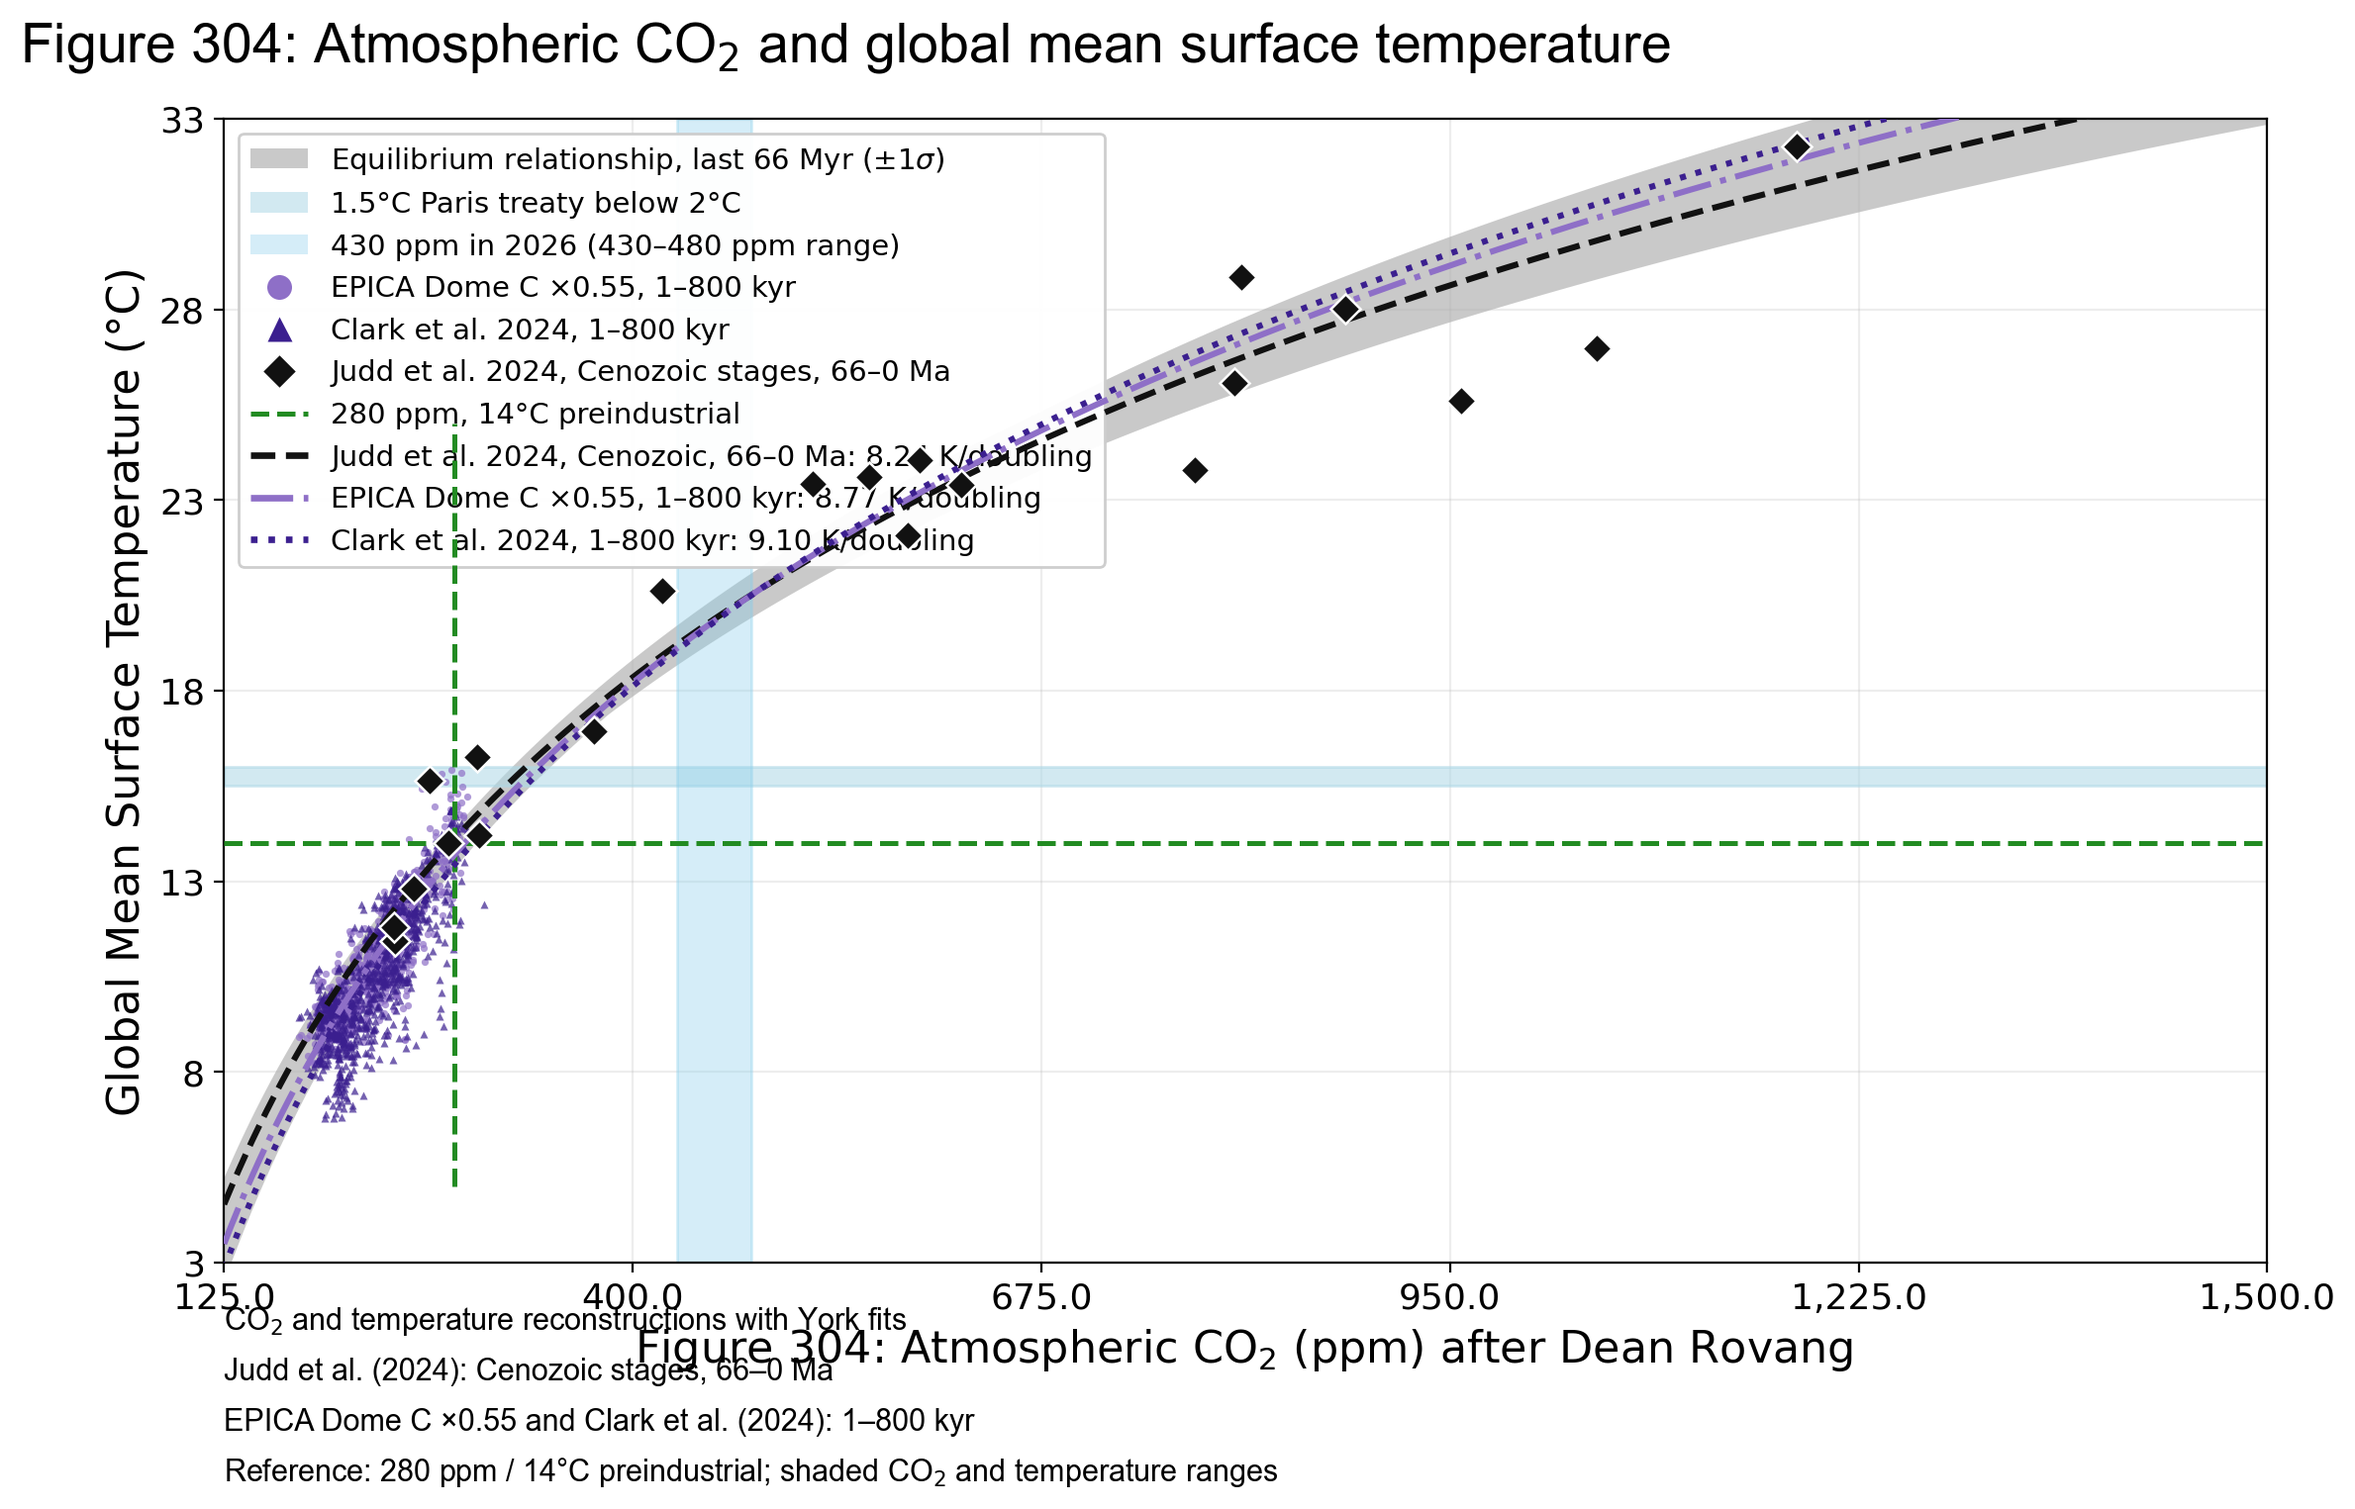
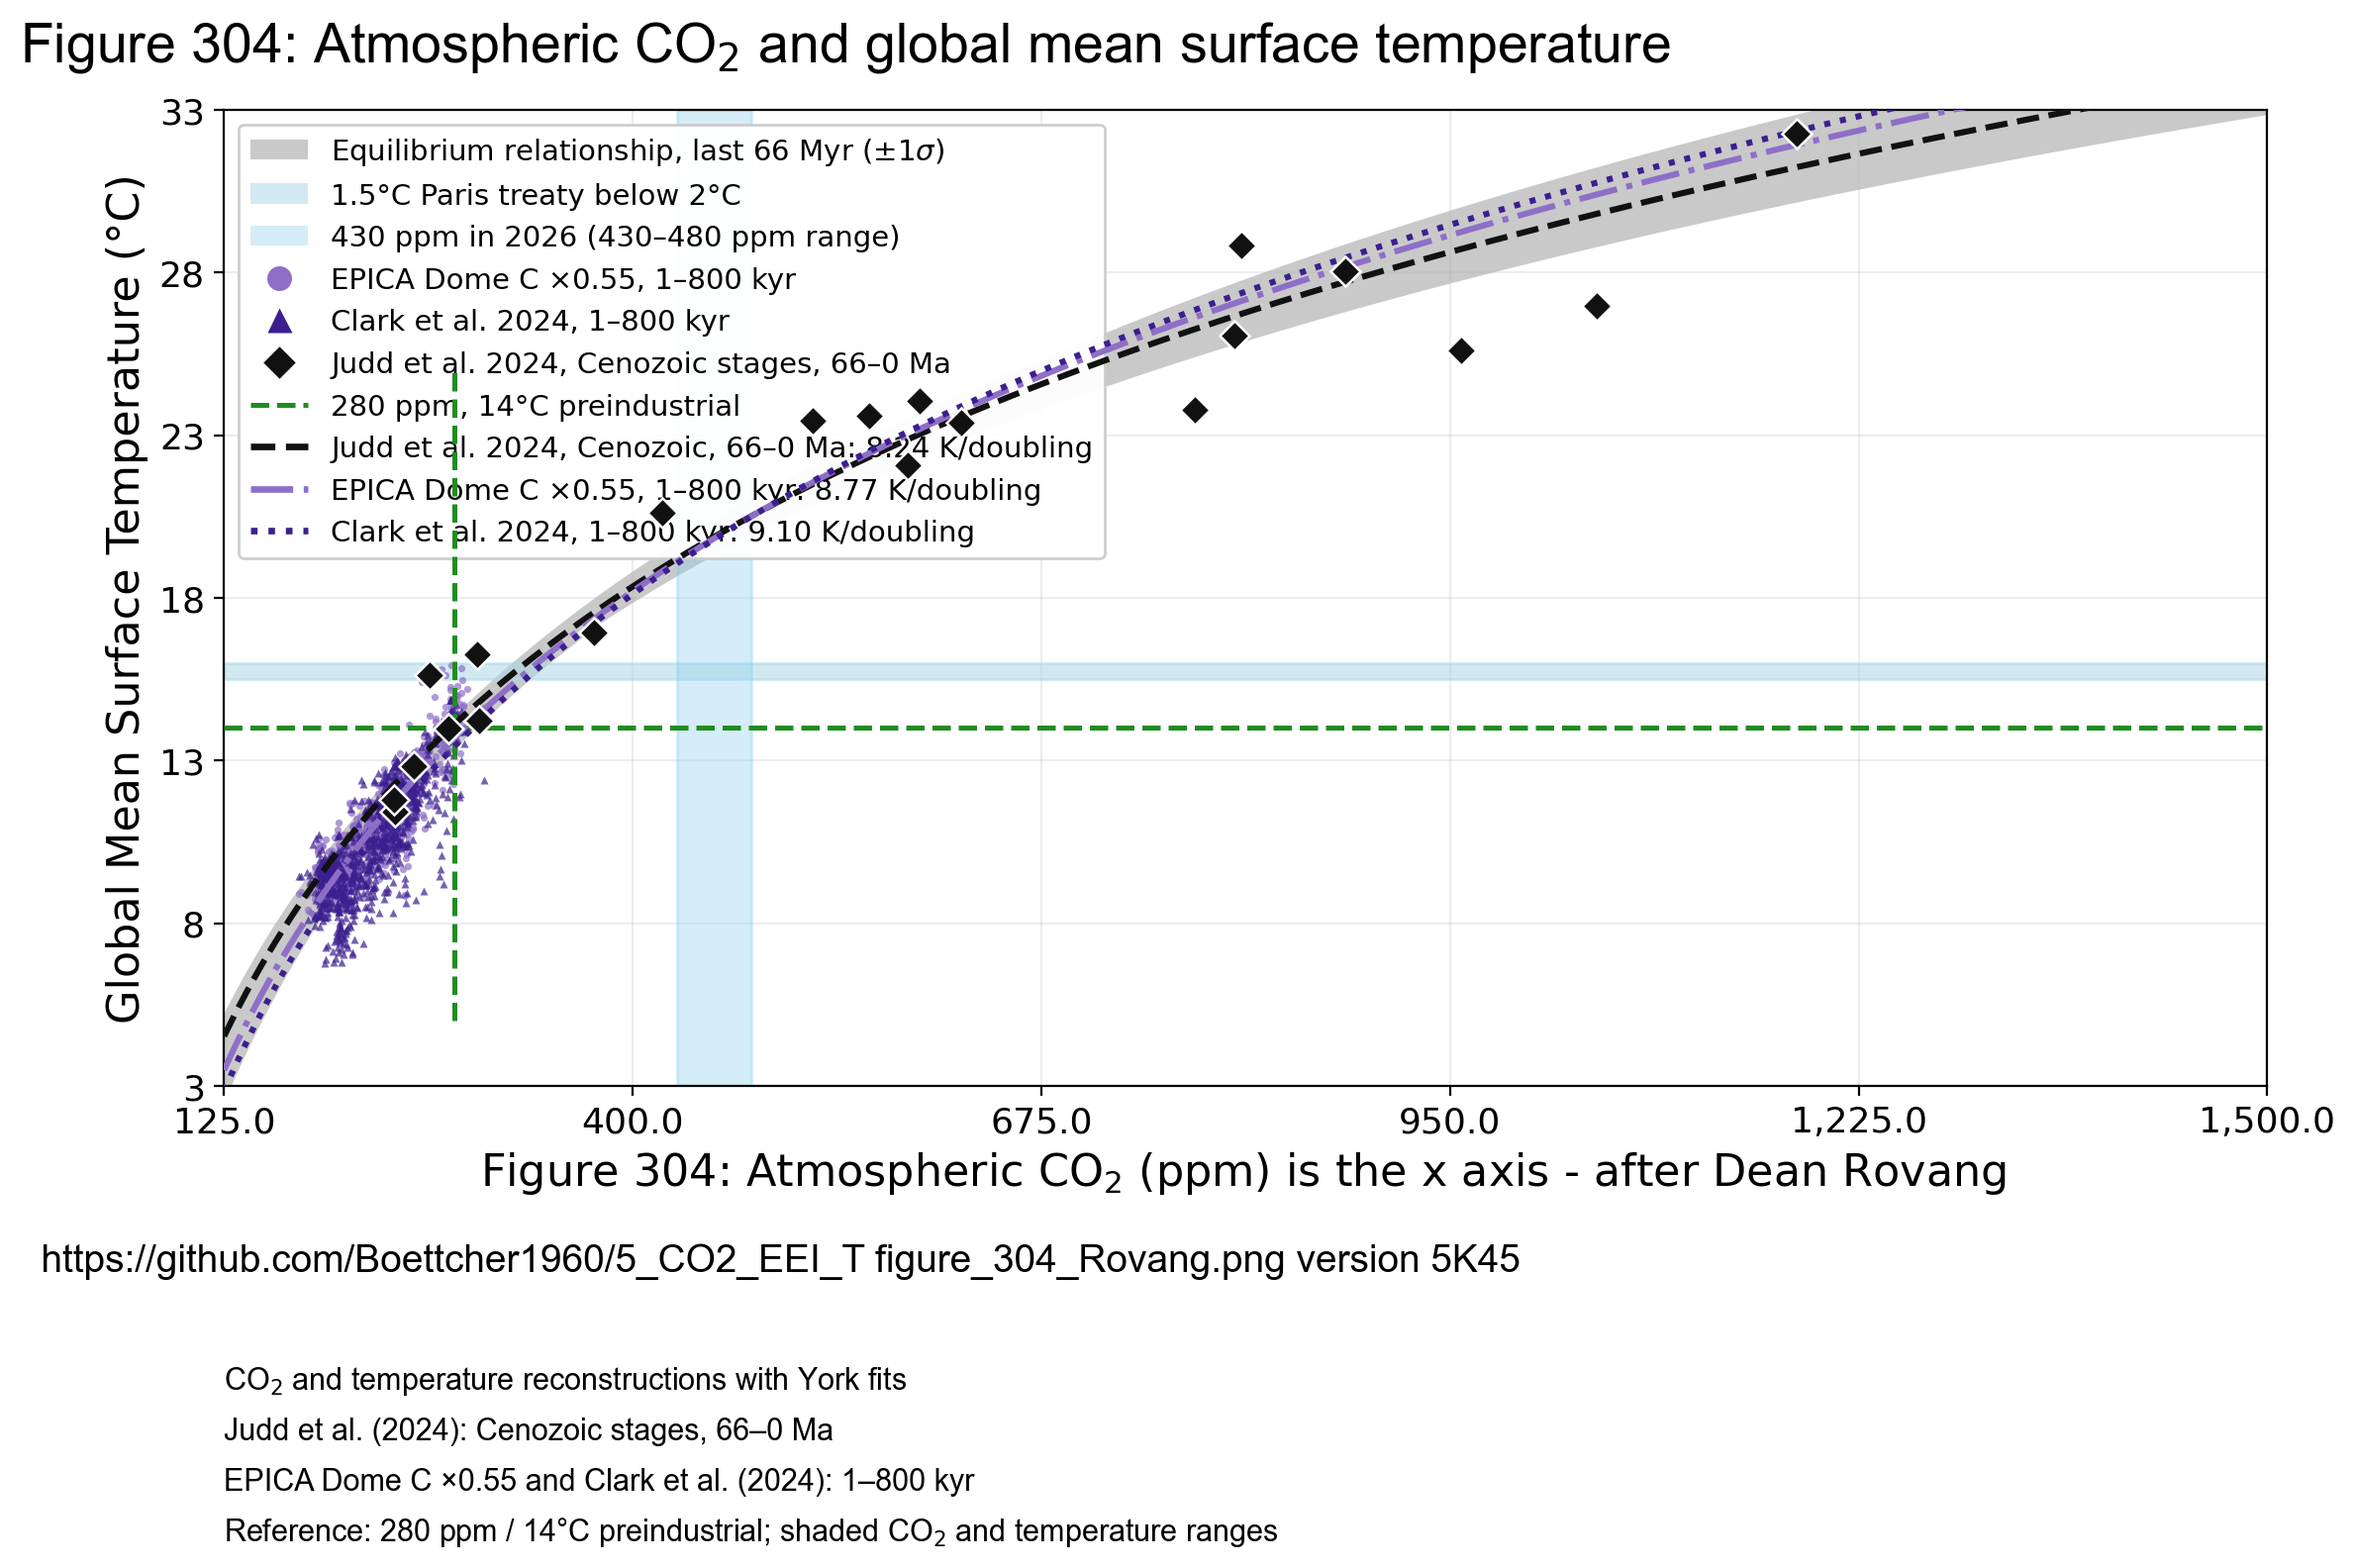
5K45

diff --git a/Rovang/Rovang_figure_303.py b/Rovang/Rovang_figure_303.py
@@ -26,14 +26,14 @@ from matplotlib.lines import Line2D
 from matplotlib.patches import Patch
 
 from config import *
+from main import v
 
 GRAY = "#b8b8b8"
 JUDD = "#111111"          # black diamonds, the established default
 EP = "#8e6fc7"            # EPICA, the original purple
 CLK = "#3b1f8f"           # Clark, deep violet-blue - separated from EPICA in hue and value
-XLO, XHI = 125, 1500        # see config.py for the y axis limits, which are set in the figure creation function
-YLO, YHI = 5, 40
-
+XLO, XHI = 125, 1500        # see config.py for the x axis CO2 limits, x_303min, x_303max
+YLO, YHI = 5, 40            # see config.py for the y axis T limits, y_303min, y_303max
 def _create_figure(linear_x=False):
     """Create a Rovang figure using logarithmic or linear CO2 scaling."""
     with contextlib.redirect_stdout(io.StringIO()):
@@ -117,7 +117,7 @@ def _create_figure(linear_x=False):
         transform=ax.transAxes,
     )
     ax.set_xlabel(
-        f"Figure 304: Atmospheric CO$_2$ ({scale_label}) after Dean Rovang ",
+        f"Figure 304: Atmospheric CO$_2$ ({scale_label}) is the x axis - after Dean Rovang ",
         fontsize=16,
     )
     ax.set_ylabel("Global Mean Surface Temperature (\u00b0C)", fontsize=16)
@@ -153,17 +153,31 @@ def _create_figure(linear_x=False):
                    label=f"{name}: {slope:.2f} K/doubling")
         )
     ax.legend(handles=handles, fontsize=10.5, loc="upper left", framealpha=0.96)
-    fig.subplots_adjust(left=0.12, right=0.98, top=0.88, bottom=0.20)
+
+    #text_below = (f"Figure from  "
+    #              f"https://github.com/Boettcher1960/5_CO2_EEI_T      "
+    #              f" {filename} version {v} ")
+    text_below3 = (f"  "
+                  f"https://github.com/Boettcher1960/5_CO2_EEI_T"
+                  f" {filename} version {v} ")
+   
+    # f"https://github.com/Boettcher1960/co2_python       Parameter {header_parameter}")
+    ax.text(-0.1, tr1y, text_below3, color="black", fontname="Arial", fontsize=14,
+            transform=ax.transAxes)
+
+
+    fig.subplots_adjust(left=0.12, right=0.98, top=0.88, bottom=0.30)
     bottom_lines = [
         "CO$_2$ and temperature reconstructions with York fits",
         "Judd et al. (2024): Cenozoic stages, 66–0 Ma",
         "EPICA Dome C ×0.55 and Clark et al. (2024): 1–800 kyr",
         "Reference: 280 ppm / 14°C preindustrial; shaded CO$_2$ and temperature ranges",
     ]
-    for y, line in zip((0.16, 0.13, 0.10, 0.07), bottom_lines):
+    for y, line in zip((0.12, 0.09, 0.06, 0.03), bottom_lines):
         fig.text(
             0.12, y, line, color="black", fontname="Arial", fontsize=11,
         )
+
     fig.savefig(output_path, dpi=200, bbox_inches="tight")
     plt.show()
     plt.close(fig)

diff --git a/config.py b/config.py
@@ -256,8 +256,11 @@ y_78min = 0.6 #  for Tom Harris Temperature
 y_78max = 1.6 #  for Tom Harris Temperature
 
 # YLO, YHI = 5, 40
-y_303min = 3  # figure303 Temperature y axis 2
-y_303max = 33 # figure303 Temperature y axis 2
+x_303min = 120   # 125  figure303 CO2 x axis 
+x_303max = 1500  # 1500 figure303 CO2 x axis 
+y_303min = 3  # figure303 Temperature y axis left
+y_303max = 33 # figure303 Temperature y axis left
+
 
 x_anf = 2004
 x_end = 2027

diff --git a/main.py b/main.py
@@ -1,5 +1,5 @@
 # main.py
-v = "5K44" # make 4 text lines below the plot like in text_9_print_7_lines():
+v = "5K45" # make 4 text lines below the plot like in text_9_print_7_lines():
 # https://github.com/Boettcher1960/5_CO2_EEI_T
 # ocean stratification https://bsky.app/profile/thomas-boettcher.bsky.social/post/3mj7zx7fzsc26
 # https://drtomharris.substack.com/p/the-great-decoupling-how-ocean-stratification

diff --git a/models.py b/models.py
@@ -1002,7 +1002,7 @@ for figure210 = 4 make no logarthmic x axis and plot in Rovang_figure_2.png
 in Rovang_figure_303.py make a headline like in def text_2_print_head_line():
 -5k44
 in Rovang_figure_303.py make 4 text lines below the plot like in text_9_print_7_lines():
-in Rovang_figure_303.py make the plot area bigger 
+in Rovang_figure_303.py move the bottom_lines more away from the plot 
 
 """
 
